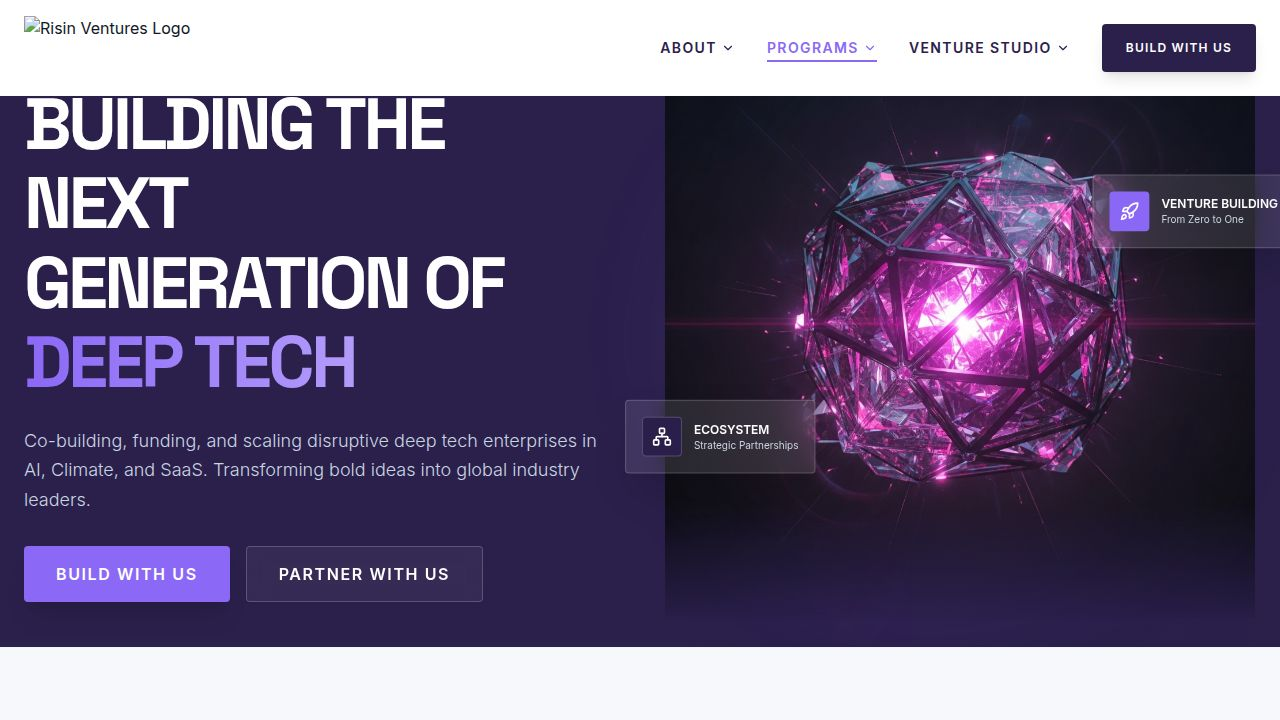
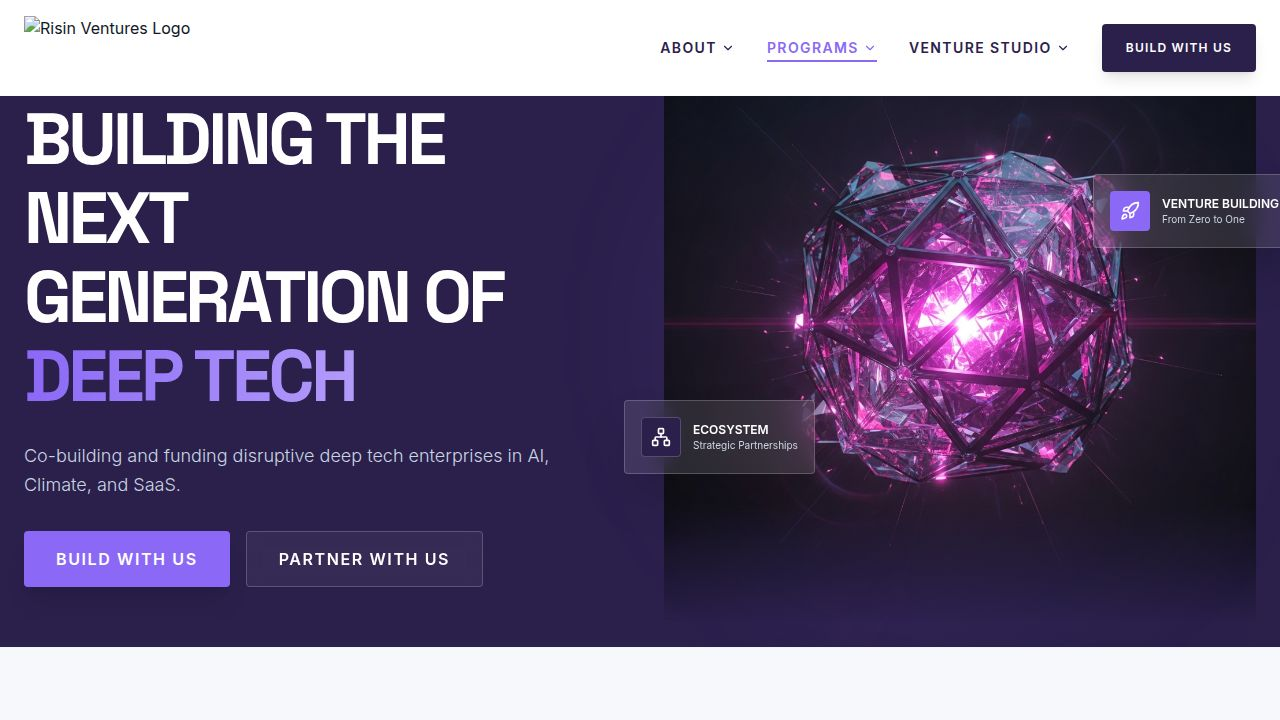
Make website content more concise and direct
Update homepage text and structure to reduce word count and improve clarity, focusing on a bold and confident tone.

Replit-Commit-Author: Agent
Replit-Commit-Session-Id: 23baef1f-b26f-43f5-9137-689a9b7b36e4
Replit-Commit-Checkpoint-Type: full_checkpoint
Replit-Commit-Event-Id: 7ba89ca2-620e-4f7f-9721-1ac194f9dc8a
Replit-Commit-Screenshot-Url: https://storage.googleapis.com/screenshot-production-us-central1/cc07027b-045f-4853-a9cd-9c7ce4d7e895/23baef1f-b26f-43f5-9137-689a9b7b36e4/bfLP2oG
Replit-Helium-Checkpoint-Created: true

diff --git a/client/src/pages/home.tsx b/client/src/pages/home.tsx
@@ -283,7 +283,7 @@ export default function Home() {
                 variants={fadeIn}
                 className="text-lg text-slate-300 max-w-xl mb-8 font-light leading-relaxed"
               >
-                Co-building, funding, and scaling disruptive deep tech enterprises in AI, Climate, and SaaS. Transforming bold ideas into global industry leaders.
+                Co-building and funding disruptive deep tech enterprises in AI, Climate, and SaaS.
               </motion.p>
 
               <motion.div variants={fadeIn} className="flex flex-col sm:flex-row gap-4">
@@ -408,7 +408,7 @@ export default function Home() {
               ))}
             </div>
             <p className="text-xs md:text-sm text-slate-400 font-light italic">
-              Built through programs, venture studio initiatives, and ecosystem partnerships.
+              Built through venture studio initiatives and ecosystem partnerships.
             </p>
             <div className="flex justify-center gap-2 mt-6">
               <span className="w-8 h-0.5 bg-[#8b68f6]"></span>
@@ -436,29 +436,23 @@ export default function Home() {
                 Venture <br/>
                 <span className="text-[#2b204c]">Building</span>
               </h2>
-              <p className="text-lg text-slate-600 leading-relaxed mb-8">
-                From idea to execution, we co-build startups by assembling teams, shaping products, and embedding execution discipline from day one. We don't just invest; we are operational partners.
+              <p className="text-xl text-[#2b204c] font-medium leading-relaxed mb-8 border-l-4 border-[#8b68f6] pl-6">
+                We don't just invest; we build.
               </p>
               
-              <div className="grid grid-cols-1 sm:grid-cols-2 gap-6 mb-8">
-                <div className="flex items-start gap-4">
-                  <div className="w-10 h-10 rounded-full bg-[#8b68f6]/10 flex items-center justify-center shrink-0">
-                    <Rocket className="text-[#8b68f6] w-5 h-5" />
+              <div className="flex flex-col gap-4 mb-8">
+                {[
+                  "Co-Building",
+                  "Capital + Execution",
+                  "Market Access"
+                ].map((item, i) => (
+                  <div key={i} className="flex items-center gap-4">
+                    <div className="w-8 h-8 rounded-full bg-[#8b68f6]/10 flex items-center justify-center shrink-0">
+                      <ArrowRight className="text-[#8b68f6] w-4 h-4" />
+                    </div>
+                    <span className="font-bold text-[#2b204c] uppercase text-sm tracking-wide">{item}</span>
                   </div>
-                  <div>
-                    <h4 className="font-bold text-[#2b204c] mb-2 uppercase text-sm tracking-wide">Co-Building</h4>
-                    <p className="text-sm text-slate-500 leading-relaxed">Hands-on operational support to build products and teams.</p>
-                  </div>
-                </div>
-                <div className="flex items-start gap-4">
-                  <div className="w-10 h-10 rounded-full bg-[#8b68f6]/10 flex items-center justify-center shrink-0">
-                    <TrendingUp className="text-[#8b68f6] w-5 h-5" />
-                  </div>
-                  <div>
-                    <h4 className="font-bold text-[#2b204c] mb-2 uppercase text-sm tracking-wide">Capital + Execution</h4>
-                    <p className="text-sm text-slate-500 leading-relaxed">Bridging the gap between funding and operational excellence.</p>
-                  </div>
-                </div>
+                ))}
               </div>
 
               <Link href="/venture-studio/venture-builder">
@@ -526,7 +520,7 @@ export default function Home() {
               Supporting the Full Lifecycle
             </h2>
             <p className="text-lg text-slate-600 leading-relaxed">
-              We provide tailored support for founders at every stage of their journey, from initial spark to global scale.
+              Tailored support from initial spark to global scale.
             </p>
           </div>
 
@@ -535,19 +529,19 @@ export default function Home() {
               { 
                 icon: <Zap className="w-8 h-8" />, 
                 title: "Innovation", 
-                desc: "We identify high-impact problems and apply deep tech, data, and emerging technologies to design innovative, market-relevant solutions.",
+                desc: "Designing market-relevant solutions using deep tech.",
                 link: "/venture-studio/innovation"
               },
               { 
                 icon: <Cpu className="w-8 h-8" />, 
                 title: "Incubation", 
-                desc: "We support early-stage founders from idea to validation, providing mentorship, resources, and structured guidance to prepare ventures for scale.",
+                desc: "Guiding early-stage founders from idea to validation.",
                 link: "/venture-studio/incubation"
               },
               { 
                 icon: <Rocket className="w-8 h-8" />, 
                 title: "Acceleration", 
-                desc: "We accelerate startups through structured programs, mentorship, regulatory readiness, and access to enterprise and investor networks.",
+                desc: "Scaling startups through access to enterprise networks.",
                 link: "/venture-studio/acceleration"
               }
             ].map((value, i) => (
@@ -596,7 +590,7 @@ export default function Home() {
             </div>
             <div className="md:w-1/2">
               <p className="text-lg text-slate-600 leading-relaxed">
-                Showcasing flagship initiatives that drive innovation and celebrate entrepreneurship across the ecosystem.
+                Flagship initiatives driving innovation across the ecosystem.
               </p>
             </div>
           </div>
@@ -606,28 +600,28 @@ export default function Home() {
               {
                 title: "AIX",
                 logo: aixLogo, 
-                desc: "A global AI-focused summit and hackathon bringing founders, enterprises, and innovators together to build real-world AI solutions.",
+                desc: "Building real-world AI solutions.",
                 link: "/programs/aix",
                 isExternal: false
               },
               {
                 title: "Sustainova",
                 logo: sustainovaLogo,
-                desc: "An innovation challenge focused on sustainability, climate tech, and impact-driven solutions for real-world environmental problems.",
+                desc: "Innovation challenge for climate tech.",
                 link: "/programs/sustainova",
                 isExternal: false
               },
               {
                 title: "Entrepreneurship Awards",
                 logo: "https://qatarentrepreneurshipawards.com/wp-content/uploads/2023/08/withoutyear-logo.png",
-                desc: "A national platform recognizing and celebrating high-potential entrepreneurs, startups, and innovation-led businesses.",
+                desc: "Celebrating high-potential entrepreneurs.",
                 link: "/programs/entrepreneurship-awards",
                 isExternal: false
               },
               {
                 title: "GCC GTM",
                 logo: gccGtmLogo,
-                desc: "Accelerating global deep-tech ventures' entry into the GCC markets through strategic partnerships and localized scaling.",
+                desc: "Accelerating global deep-tech ventures.",
                 link: "/programs/gtm",
                 isExternal: false
               }
@@ -714,7 +708,7 @@ export default function Home() {
                   </span>
                 </div>
                 <p className="text-slate-400 text-sm max-w-lg mt-2">
-                  Recognizing and celebrating excellence and innovation in ICT and digital entrepreneurship across Qatar and the wider region.
+                  Recognizing and celebrating excellence in ICT and digital entrepreneurship.
                 </p>
               </div>
               <a 
@@ -761,7 +755,7 @@ export default function Home() {
                   website: "https://www.bigtrader.biz/",
                   category: "Marketplace",
                   accent: "#952828", // Saffron Red from logo
-                  desc: "A digital trading and supply chain platform enabling smarter procurement, visibility, and efficiency for commodity and goods trading businesses." 
+                  desc: "Smarter procurement and supply chain efficiency." 
                 },
                 { 
                   name: "Madad Fintech", 
@@ -769,7 +763,7 @@ export default function Home() {
                   website: "https://www.madadfintech.com/en",
                   category: "Fintech",
                   accent: "#2b204c", // Dark Indigo
-                  desc: "A Shariah-compliant fintech platform providing ethical digital financial solutions for individuals and underserved communities." 
+                  desc: "Ethical digital financial solutions for everyone." 
                 },
                 { 
                   name: "iProcure", 
@@ -777,7 +771,7 @@ export default function Home() {
                   website: "https://iprocure.ai/",
                   category: "AI",
                   accent: "#8b68f6", // Vivid Violet
-                  desc: "An AI-powered procurement intelligence platform helping enterprises optimize sourcing, pricing, and supplier decisions." 
+                  desc: "AI-powered procurement intelligence." 
                 },
                 { 
                   name: "Arisio", 
@@ -785,7 +779,7 @@ export default function Home() {
                   website: "https://arisio.io/",
                   category: "AI / Marketplace",
                   accent: "#10b981", // Emerald/Startup green
-                  desc: "An AI-driven matchmaking platform connecting startups, investors, and ecosystems through intelligent application screening and discovery." 
+                  desc: "Connecting startups, investors, and ecosystems." 
                 }
               ].map((startup, i) => (
                 <motion.div 
